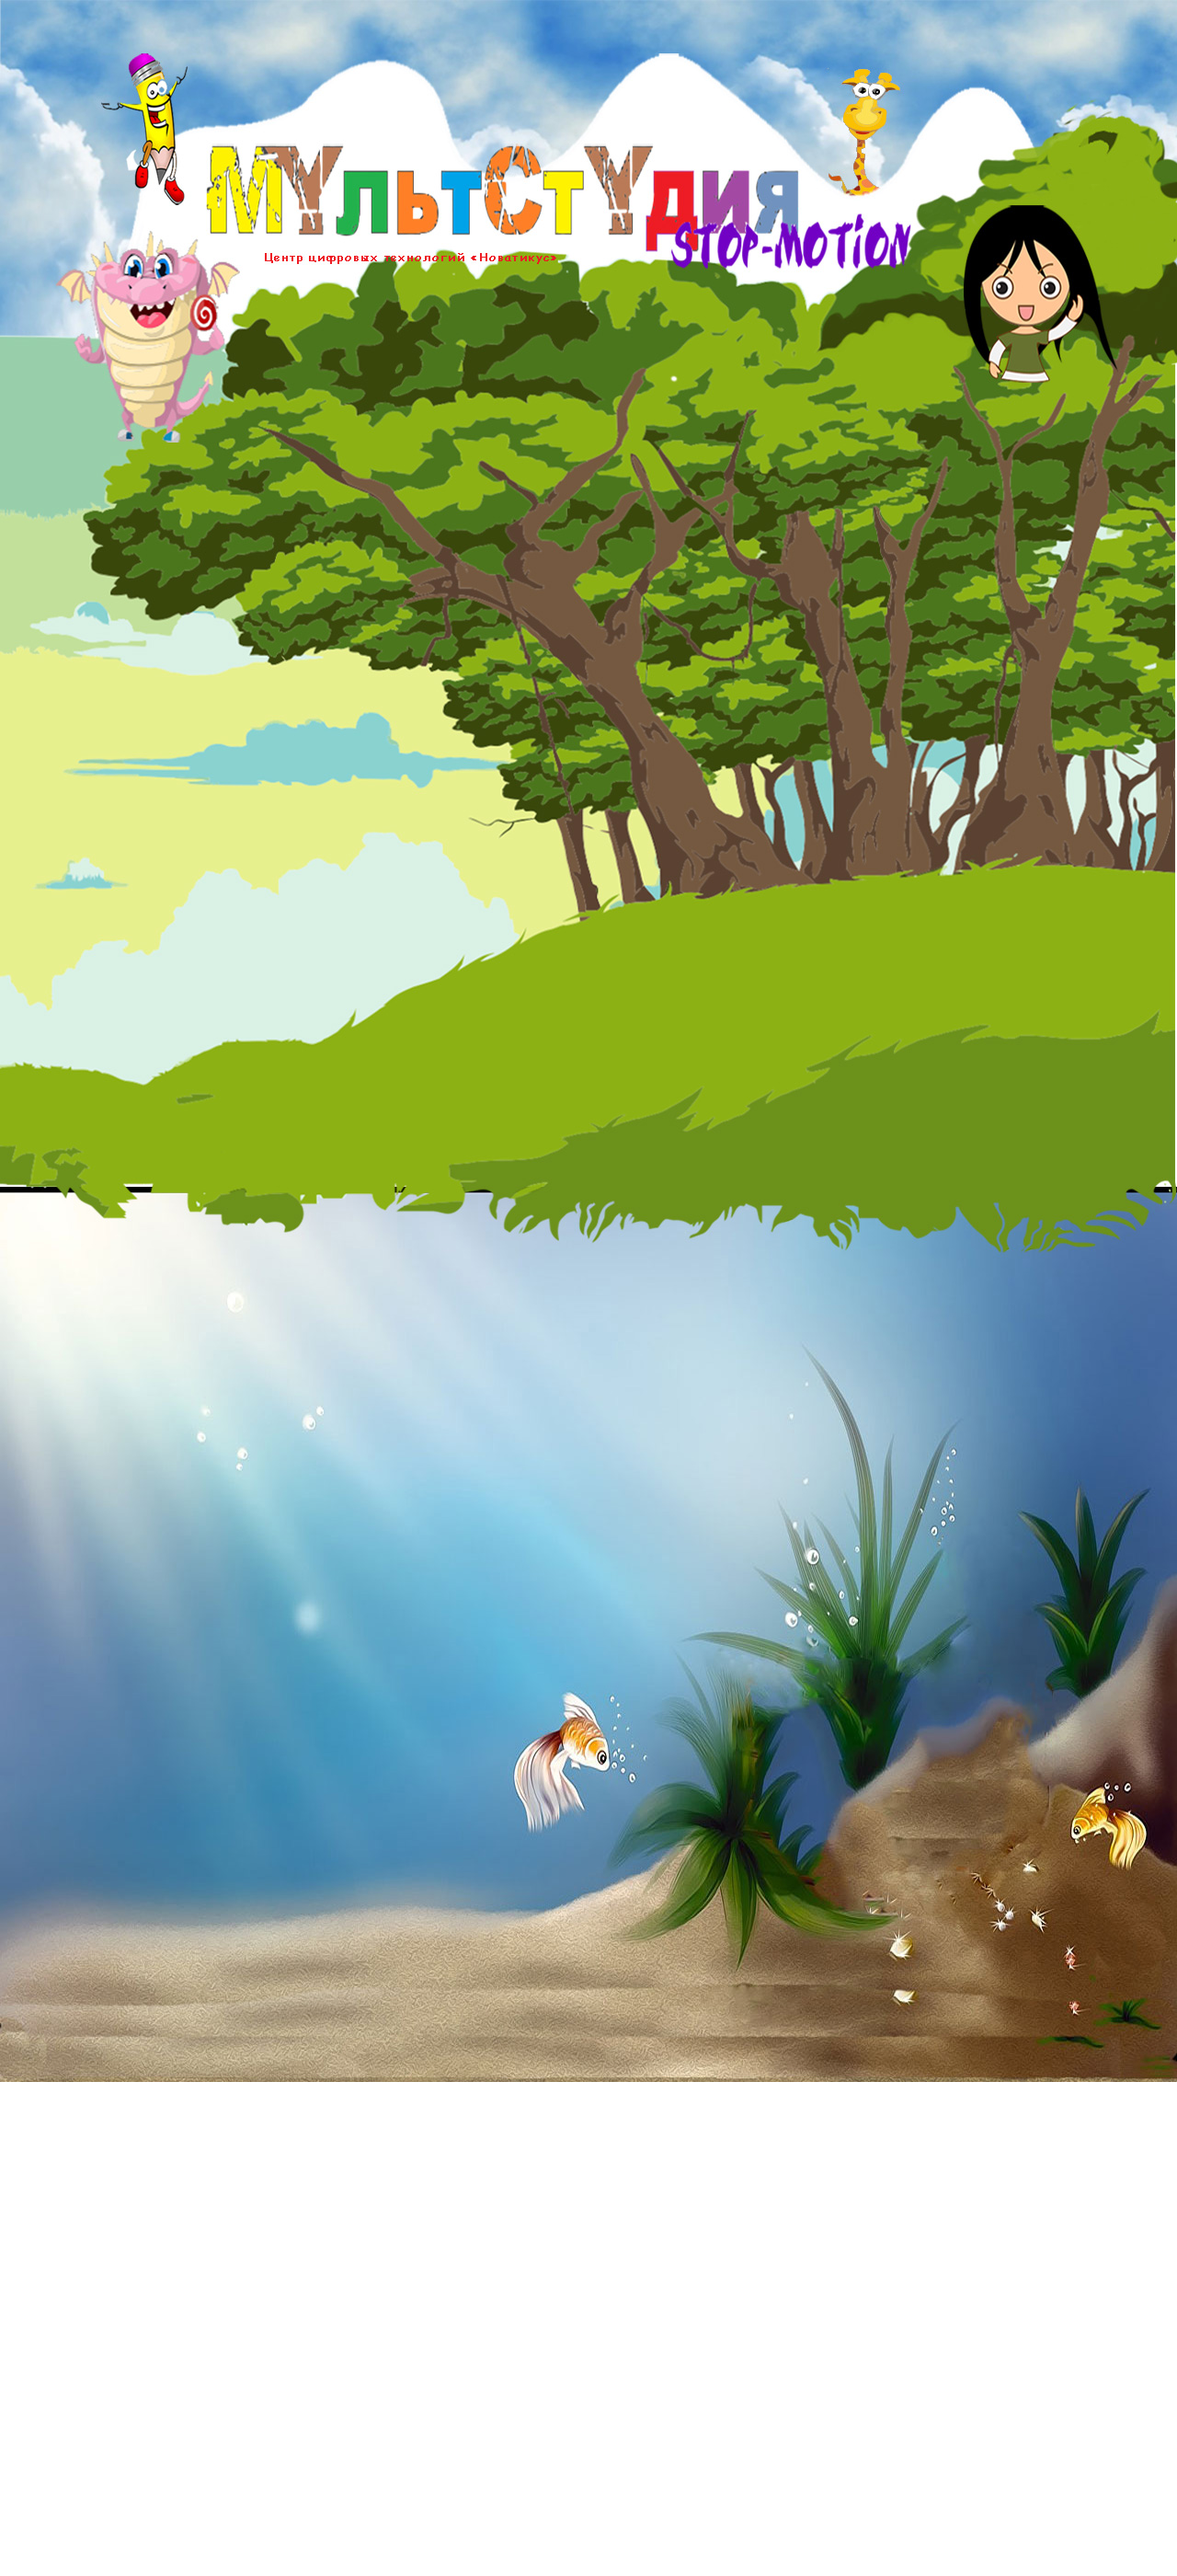
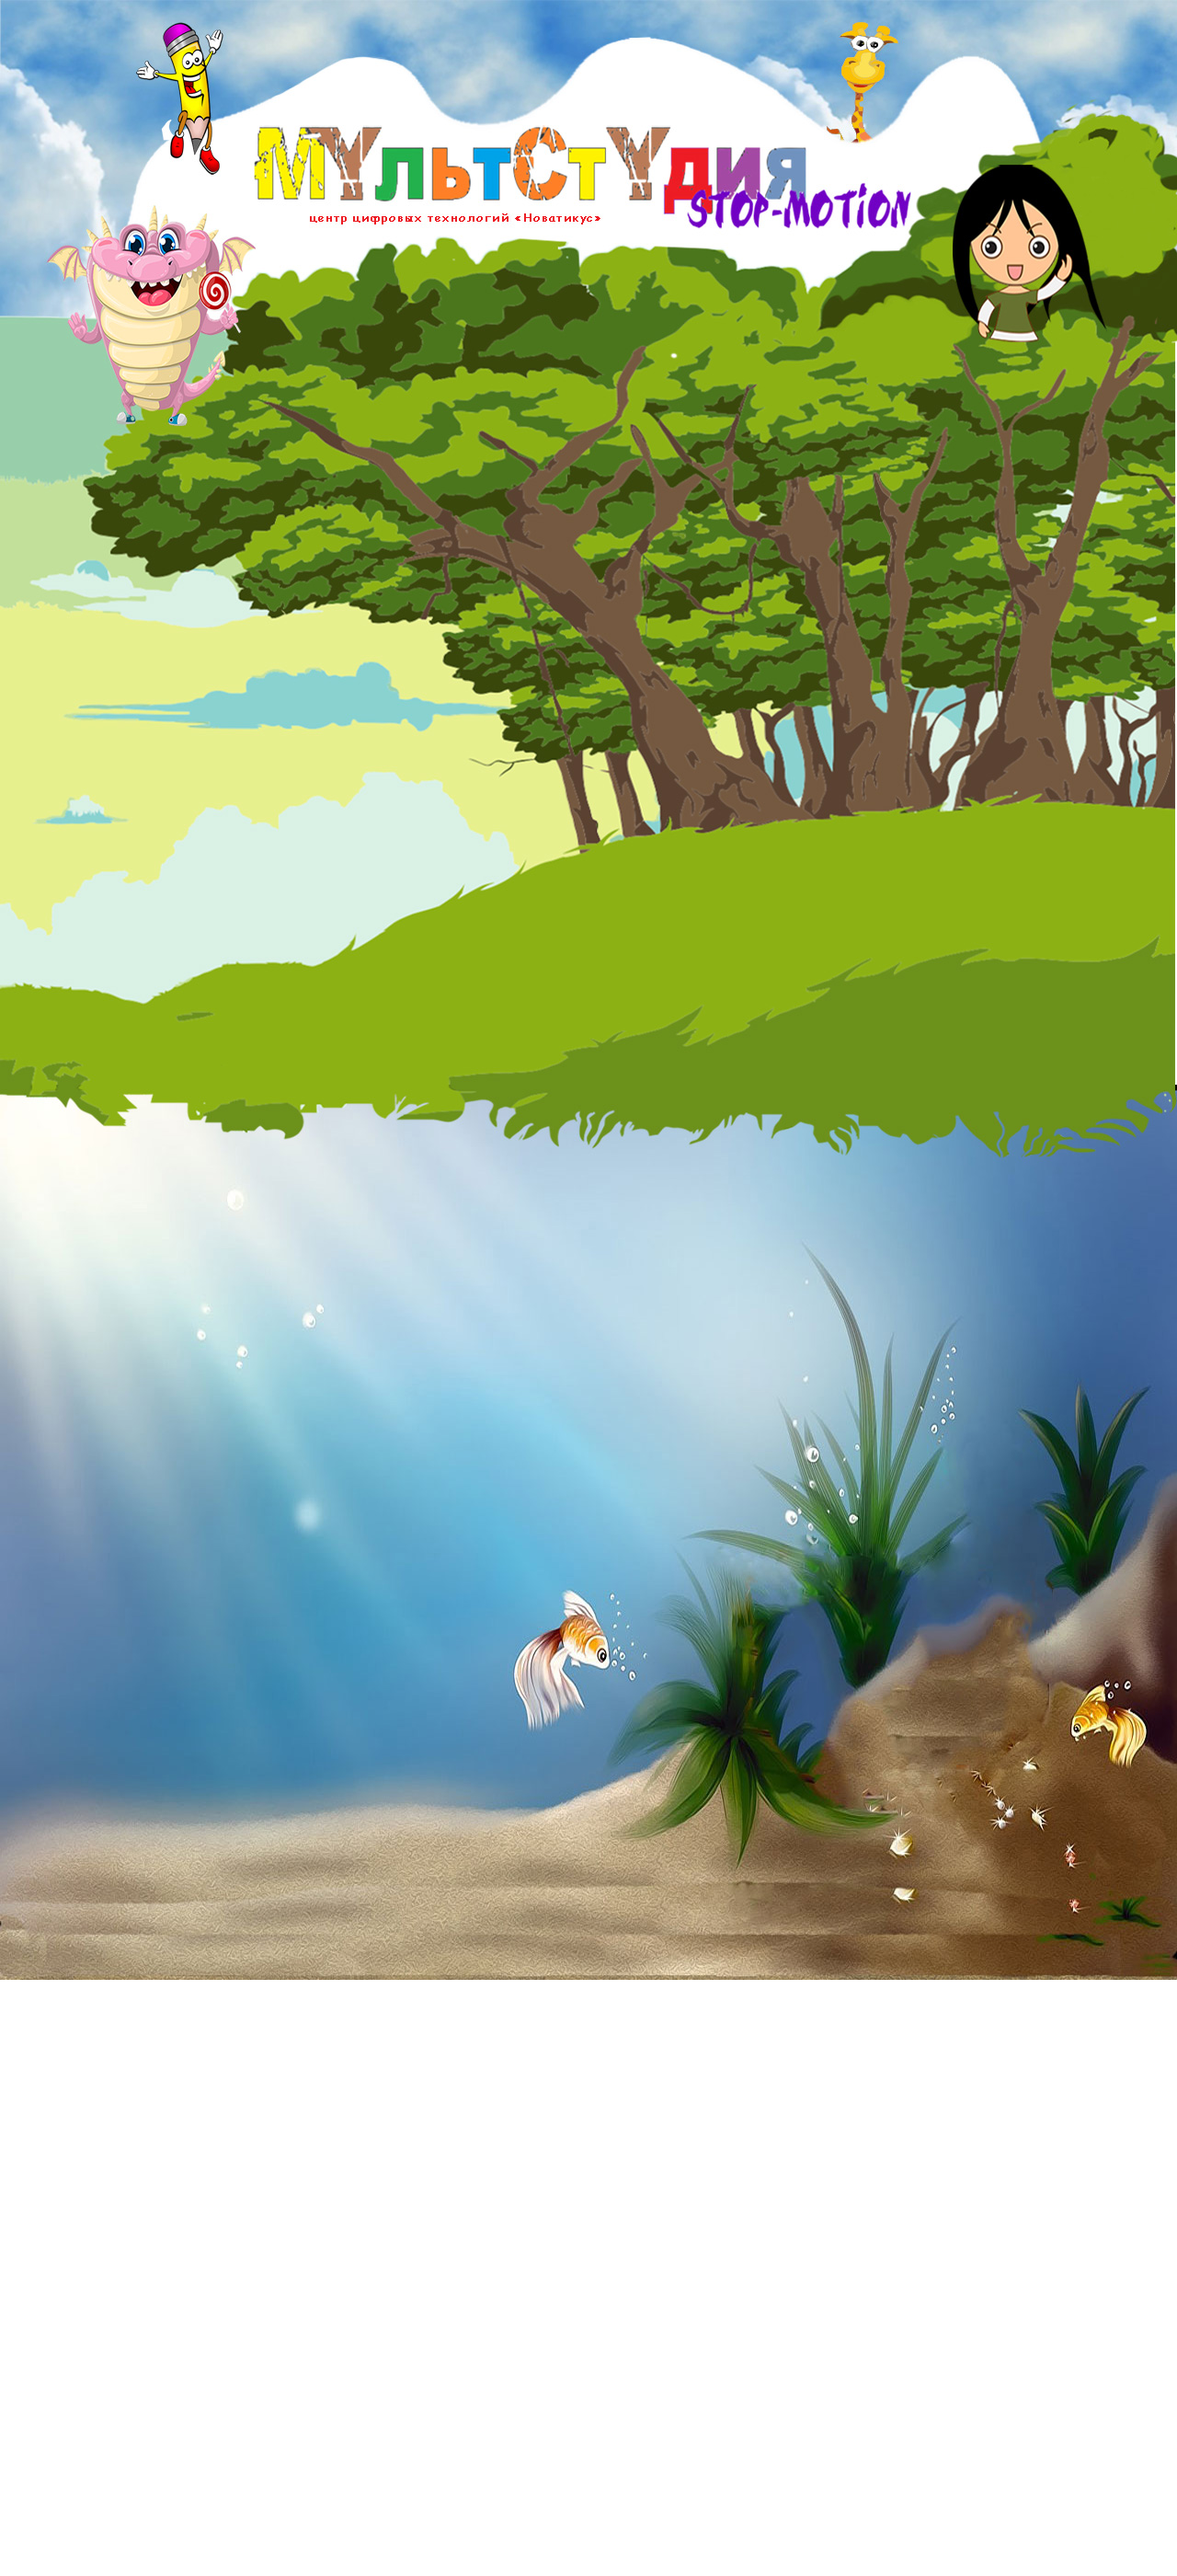
fon

diff --git a/style/style.css b/style/style.css
@@ -70,12 +70,14 @@ div.container {
 }
 /* --------меню--------- */
 .menu {
+	z-index: 100;
 	display: block;
     width: 100%;
     left: 0;
     right: 0;
 }
 .menufixed {
+	z-index: 100;
 	display: block;
     width: 100%;
     left: 0;
@@ -139,6 +141,11 @@ div.container {
 	margin: 0 auto;
 	width: 100%;
 	text-align: center;
+	padding-bottom: 20%;
+}
+.podcontainer1 {
+	margin: 0 auto;
+	width: 85%;
 }
 .headerBlog {
 	padding-top: 7%;;
@@ -156,7 +163,7 @@ div.container {
 }
 #blogInfo li {
 	list-style: none; /* Убираем исходные маркеры */
-	padding-top: 10px;
+	padding: 5%;
     padding-bottom: 10px;
     background: url(../images/monkey.png) no-repeat 0 5px; /*Параметры фона */
     padding-left: 33px;
@@ -178,10 +185,11 @@ div.container {
 }
 #formasvazi .bigText {
 	font-size:28px;
-	padding-top: 35px;
+	padding: 8%;
 }
 #formasvazi .minitext {
-	font-size: 12px;
+	font-size: 13px;
+    padding: 11%;
 }
 #formasvazi ul {
 	list-style-type:none;
@@ -196,9 +204,8 @@ div.container {
 #container2 {
 	margin: 0 auto;
 	width: 85%;
-	
 	text-align: center;
-	color: red;
+	color: white;
 }
 .zanatia {
 	display: block;
@@ -245,7 +252,7 @@ div.container {
 }
 .zanatia1 li {
     float: left;
-    width: 25%;
+    width: 33%;
     font-size: 18px;
 }
 .zanatia1 a {
@@ -260,8 +267,8 @@ div.container {
   font-family: Cuprum; 
 }
 .zanatia1 img {
-	border-radius: 100px; /* Радиус скругления */
-    border: 12px solid blue; /* Параметры рамки */
+	border-radius: 15px; /* Радиус скругления */
+    border: 1px solid white; /* Параметры рамки */
     box-shadow: 0 0 7px #666; /* Параметры тени */
 }
 /* --------видео--------- */
@@ -271,6 +278,9 @@ div.container {
 	text-align: center;
 	color: red;
 	background: url(../images/dolphin.png) no-repeat 0 65px;
+}
+.children {
+	width: 100%;
 }
 .video {
 	margin: 0 auto;	
@@ -340,8 +350,52 @@ div#footer {
     right: 25px;
     bottom: 25px;
 }
-/* --------iширина экрана 484 и меньше--------- */
-@media (max-width:484px) {
+/* --------iширина экрана 1000 и меньше--------- */
+@media (max-width:1000px) {
+	#blogInfo {
+		font-size: 13px;
+	}
+	#formasvazi .bigText {
+		font-size: 26px;
+	}
+}
+/* --------iширина экрана 800 и меньше--------- */
+@media (max-width:800px) {
+	.headerBlog {
+		font-size: 35px;
+	}
+	.menu a {
+		font-size: 10px;
+	}
+	.menufixed a {
+		font-size: 10px;
+	}
+	#blogInfo {
+		width: 100%;
+		height: 10%;
+	}
+	#blogInfo li {
+		padding: 3%;
+    	padding-bottom: 6px;
+	}
+	#makaka {
+		width: 100%;
+		padding-top: 23px;
+    	padding-bottom: 23px;
+	}
+	#formasvazi { 
+		width: 100%;
+		height: 10%;
+	}
+	#formasvazi .bigText {
+		margin-top: -21px;
+	}
+/* --------iширина экрана 800 и меньше--------- */
+@media (max-width:600px) {
+
+}
+/* --------iширина экрана 485 и меньше--------- */
+@media (max-width:485px) {
 	div#container {
 		width: 100%;
 		height: 7%;

diff --git a/index.php b/index.php
@@ -35,44 +35,45 @@
     	</div>
     	<div class="testblog"></div>
 		<div id = "container1">
-		<div id="idmenu" class="menu">
-		    <ul>
-		      <li><a href="#Что_такое_мультостудия?" style="background:#fd8026">Что такое мультостудия?</a></li>
-		      <li><a href="#Что_мы_делаем_на_занятиях?" style="background:#0d9cea">Что делаем на занятиях?</a></li>
-		      <li><a href="#Примеры_проектов" style="background:#a349a3">Примеры проектов</a></li>
-		      <li><a href="#Почему_именно_мы" style="background:#edd31c">Почему именно мы?</a></li>
-		      <li><a href="#Карта_и_контакты" style="background:#ed1c22">Карта и контакты</a></li>
-		    </ul>
-		</div>
-
-			<div id="Что_такое_мультостудия?"></div>			
-			<h1 style="color:yellow" class="headerBlog">Что такое Мультостудия?</h1>
-			<div id ="blogInfo">
-				<ul>
-					<li>Целый год занятий мультипликацией stop-motion! (1 или 2 раза в неделю) <br>
-	         		<a href="#">Что такое stop-motion?<a></li>
-					<li>Не нужно уметь рисовать! Делать мультики в нашей студии сможет каждый!</li>
-					<li>Развитие мелкой моторики</li>
-					<li>Навыки работы с компьютерными программами (монтажа, озвучки, рисования)</li>
-					<li>Навыки командной и проектной работы.</li>
-					<li>Что ещё? Приходите на бесплатное занятие, мы всё вам расскажем! Заполните форму справа -->></li>
-				</ul>
+			<div id="idmenu" class="menu">
+			    <ul>
+			      <li><a href="#Что_такое_мультостудия?" style="background:#fd8026">Что такое мультостудия?</a></li>
+			      <li><a href="#Что_мы_делаем_на_занятиях?" style="background:#0d9cea">Что делаем на занятиях?</a></li>
+			      <li><a href="#Примеры_проектов" style="background:#a349a3">Примеры проектов</a></li>
+			      <li><a href="#Почему_именно_мы" style="background:#edd31c">Почему именно мы?</a></li>
+			      <li><a href="#Карта_и_контакты" style="background:#ed1c22">Карта и контакты</a></li>
+			    </ul>
 			</div>
-			<div id ="makaka">
-			<img src="images/obvlenia.png" alt="Формируем навыки работы с программами"/>
-			</div>
-			<div id ="formasvazi">
-				<div class="bigText">Запишите ребенка <br>на <text style="color:black">бесплатное</text> занятие <br>прямо сейчас!</div>
-				<form name="test" method="post" action="input.php">
+			<div class="podcontainer1">
+				<div id="Что_такое_мультостудия?"></div>			
+				<h1 style="color:yellow" class="headerBlog">Что такое Мультостудия?</h1>
+				<div id ="blogInfo">
 					<ul>
-						<li><input type="text" name="FIO" placeholder="Ваше ФИО"></br></li>
-						<li><input type="text" name="number" placeholder="Ваш номер телефона"></li>
+						<li>Целый год занятий мультипликацией stop-motion! (1 или 2 раза в неделю) <br>
+		         		<a href="#">Что такое stop-motion?<a></li>
+						<li>Не нужно уметь рисовать! Делать мультики в нашей студии сможет каждый!</li>
+						<li>Развитие мелкой моторики</li>
+						<li>Навыки работы с компьютерными программами (монтажа, озвучки, рисования)</li>
+						<li>Навыки командной и проектной работы.</li>
+						<li>Что ещё? Приходите на бесплатное занятие, мы всё вам расскажем! Заполните форму справа -->></li>
 					</ul>
+				</div>
+				<div id ="makaka">
+				<img src="images/obvlenia.png" alt="Формируем навыки работы с программами"/>
+				</div>
+				<div id ="formasvazi">
+					<div class="bigText">Запишите ребенка <br>на <text style="color:black">бесплатное</text> занятие <br>прямо сейчас!</div>
+					<form name="test" method="post" action="input.php">
+						<ul>
+							<li><input type="text" name="FIO" placeholder="Ваше ФИО"></br></li>
+							<li><input type="text" name="number" placeholder="Ваш номер телефона"></li>
+						</ul>
 						<div class="bluebutton">Записаться на занятие</div>
 						<div class="minitext">После получения Ваших контактных данных с Вами свяжется администратор нашего центра и согласует время занятия! Пожалуйста, будьте на связи!</div>					
-				</form>	
-				<small></small>			
-			</div>
+					</form>	
+					<small></small>			
+				</div>
+			</div>			
 		</div>
 
 		<div id = "container2">
@@ -89,15 +90,16 @@
 			<h1 style="color:black" class="headerBlog">А пото-о-о-м...</h1>
 				<div class="zanatia1">
 				    <ul>
-					    <li><img src="images/img.jpg"/><br>Моделируем сцену, добавляем свет</li>
-					    <li><img src="images/img.jpg"/><br>Снимаем кадры</li>
-					    <li><img src="images/img.jpg"/><br>Монтируем видео, озвучиваем</li>
+					    <li><img src="images/img1.png"/><br>Моделируем сцену, добавляем свет</li>
+					    <li><img src="images/img2.png"/><br>Снимаем кадры</li>
+					    <li><img src="images/img3.png"/><br>Монтируем видео, озвучиваем</li>
 				    </ul>
 				</div>
 		</div>
 		
 		<div id = "container3">
 			<h1 style="color:black" class="headerBlog">Еще немного старания....<br>И мультфильм готов!!</h1>
+			<img src="images/children.png" class="children" />
 			<div id="Примеры_проектов"></div>
 			<h1 style="color:black" class="headerBlog">Получаются вот такие проекты</h1>
 			<div class="video">
